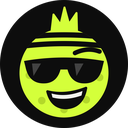
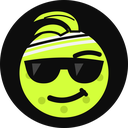
SUNDER: front-page mobile counts as SMS opt-in (#542)
* SUNDER: front-page mobile is the SMS opt-in, drop thank-you SMS step, footer consent covers SMS

* SUNDER: Dink Daddy avatar r3 C-1-quiff, cache bump

Changed region(s): [[0.1562, 0.0312, 0.8125, 0.4688], [0.3438, 0.6562, 0.6875, 0.875]]

diff --git a/public/clients/sunder/index.html b/public/clients/sunder/index.html
@@ -44,7 +44,7 @@ button:focus-visible{outline:3px solid var(--chalk);outline-offset:3px}
 a{color:var(--chalk);text-decoration:underline;text-underline-offset:2px}
 .done{display:none}.state-thanks .form{display:none}.state-thanks .thanks{display:block}
 .done h2{color:var(--volt);font-family:Archivo,"Inter Tight";font-weight:800;font-stretch:125%;font-size:32px;line-height:1.05;margin:0 0 10px;text-transform:uppercase}.done p{margin:0;font-size:17px}
-.tl{margin:0 0 18px!important;color:var(--chalk)}.share{border-top:1.5px solid #333;padding-top:16px}.sh{font-weight:600;color:var(--volt);margin:0 0 12px!important}.cap{font-size:14px!important;color:var(--chalk);margin:-4px 0 12px!important}.cap a{color:var(--chalk)}.ro{color:var(--volt)!important}.btns{display:grid;grid-template-columns:1fr 1fr;gap:10px}.b2{height:46px;font-size:15px}.ghost{background:transparent;color:var(--volt);border:1.5px solid var(--volt)}.smsb{margin-top:18px;padding:14px;border:1.5px solid #333;border-radius:10px}.sq{font-size:15px!important;font-weight:600;margin:0 0 10px!important}.b3{height:44px;font-size:14px;background:var(--volt);color:var(--carbon)}.smsb label.f span{font-size:13px}.smsb input[type=tel]{height:44px}.sms span{font-size:14px;color:var(--chalk)}.b3:disabled{background:#262626;color:#b4b4ae;border:1.5px dashed #6a6a66;cursor:not-allowed}
+.tl{margin:0 0 18px!important;color:var(--chalk)}.share{border-top:1.5px solid #333;padding-top:16px}.sh{font-weight:600;color:var(--volt);margin:0 0 12px!important}.cap{font-size:14px!important;color:var(--chalk);margin:-4px 0 12px!important}.cap a{color:var(--chalk)}.ro{color:var(--volt)!important}.btns{display:grid;grid-template-columns:1fr 1fr;gap:10px}.b2{height:46px;font-size:15px}.ghost{background:transparent;color:var(--volt);border:1.5px solid var(--volt)}
 .tick{width:44px;height:44px;border-radius:50%;background:var(--volt);color:var(--carbon);display:flex;align-items:center;justify-content:center;font:800 22px Archivo,"Inter Tight";margin-bottom:16px}
 footer{position:relative;padding:18px 72px;font-size:13px;color:var(--muted);border-top:1px solid #262626;background:var(--carbon)}footer{line-height:1.5}footer .ft{display:block;max-width:760px}footer .fl{display:block;font-size:12px;margin-top:6px}footer a{display:inline-block;padding:6px 0;margin-right:16px;color:var(--muted);text-decoration-color:rgba(214,214,208,.4)}
 .band{display:none}
@@ -73,7 +73,7 @@ footer{position:relative;padding:18px 72px;font-size:13px;color:var(--muted);bor
 <form class="form" id="f" novalidate>
 <label class="f"><span data-c="lFirst">First name</span><input type="text" id="first" autocomplete="given-name"></label>
 <label class="f"><span data-c="lEmail">Email</span><input type="email" id="email" autocomplete="email"></label>
-<label class="f"><span data-c="lMob0" data-h="1">Mobile <span class="opt">(optional)</span></span><input type="tel" id="mob0" autocomplete="tel" inputmode="tel"></label>
+<label class="f"><span data-c="lMob0" data-h="1">Mobile <span class="opt">(optional): for a launch-day text and SMS-only offers</span></span><input type="tel" id="mob0" autocomplete="tel" inputmode="tel"></label>
 <button type="submit" data-c="cta" style="margin-top:6px">Get first hit</button>
 <input type="text" id="hp" name="website" tabindex="-1" autocomplete="off" aria-hidden="true" style="position:absolute;left:-9999px;width:1px;height:1px;opacity:0">
 <p class="below" id="wn" role="status" aria-live="polite" hidden style="color:#d4ff3a;font-weight:600"></p>
@@ -83,10 +83,6 @@ footer{position:relative;padding:18px 72px;font-size:13px;color:var(--muted);bor
 <div class="share"><p class="sh" data-c="shareL"></p><p class="cap" data-c="shareCap" data-h="1"></p>
 <label class="f"><span data-c="lLink"></span><input type="text" readonly id="ref" class="ro"></label>
 <div class="btns"><button type="button" class="b2" data-c="copyB"></button><button type="button" class="b2 ghost" data-c="shareB"></button></div></div>
-<div class="smsb"><p class="sq" data-c="smsQ"></p>
-<label class="f"><span data-c="lMobile"></span><input type="tel" id="mobile" autocomplete="tel"></label>
-<label class="sms show"><input type="checkbox" id="smsok" checked><span data-c="sms"></span></label>
-<button type="button" class="b3" id="addb" disabled data-c="addB"></button></div>
 <div class="dq" id="dq"><p class="dl" data-c="dqL"></p>
 <div class="opts"><button type="button" class="o" data-v="outright" data-c="dq1"></button><button type="button" class="o" data-v="subscription" data-c="dq2"></button><button type="button" class="o" data-v="unsure" data-c="dq3"></button></div>
 <p class="dt" data-c="dqT" aria-live="polite"></p></div>
@@ -105,7 +101,7 @@ const COPY={
  eyebrow:"Split the game open.",
  headline:"Get first hit.", /* set from HEADLINES below */
  sub:"A new pickleball paddle with power, spin and control. Join for 20% off at launch, early access and a giveaway.",
- lFirst:"First name", lEmail:"Email", lMob0:'Mobile <span class="opt">(optional)</span>',
+ lFirst:"First name", lEmail:"Email", lMob0:'Mobile <span class="opt">(optional): for a launch-day text and SMS-only offers</span>',
  cta:"Get first hit",
  wty:"12-month warranty on core and edge.", /* Confirmed by Shane 2 Nov 2026 */
  thanksH:"You're in.",
@@ -113,12 +109,11 @@ const COPY={
  shareL:"Get more chances to win. Share your link: every mate who joins gets you an extra giveaway entry.",
  shareCap:'Up to 10 extra entries.',
  lLink:"Your link", copyB:"Copy link", shareB:"Share",
- smsQ:"Want a text the day we launch?", lMobile:"Mobile", sms:"Text me launch news and offers. Reply STOP to opt out.", addB:"Add",
  /* Demand question (copy v4, "Thank-you state: optional demand question", not locked). Last block, one tap, no price. */
  dqL:"Quick one, totally optional. When SUNDER launches, would you rather:",
  dq1:"Buy a paddle outright", dq2:"Get a fresh paddle every 6 months for a monthly fee", dq3:"Not sure yet",
  dqT:"Thanks, noted. It helps us shape the launch.",
- footer:'<span class="ft">By joining, you agree to receive emails from Saabai Pty Ltd (ABN&nbsp;44&nbsp;703&nbsp;735&nbsp;264) trading as SUNDER about our launch, offers and giveaways. We email you to confirm before any marketing. Unsubscribe any time.</span><span class="fl"><a href="/privacy">Privacy</a><a href="/giveaway-terms">Giveaway terms</a></span>'
+ footer:'<span class="ft">By joining, you agree to receive emails or SMS from Saabai Pty Ltd (ABN&nbsp;44&nbsp;703&nbsp;735&nbsp;264) trading as SUNDER Pickleball about our launch, offers and FREE giveaways. We email you to confirm before any marketing. Unsubscribe any time.</span><span class="fl"><a href="/privacy">Privacy</a><a href="/giveaway-terms">Giveaway terms</a></span>'
 };
 /* ===== END COPY BLOCK ===== */
 {const ovB=(()=>{try{const m=document.cookie.match(/(?:^|; )sb_ov=([^;]+)/);const o=m&&JSON.parse(decodeURIComponent(m[1]));return !!o&&o.p===location.pathname&&o.o.some(t=>t.i==='sunder-home-hero-headline'&&t.a==='b')}catch{return false}})();
@@ -135,13 +130,9 @@ function thanks(first,ref,token){
  const h=document.querySelector('[data-c="thanksH"]');h.textContent=first?"You're in, "+first+".":"You're in.";
  $('ref').value=ref?refLink(ref):'';
  if(!ref)document.querySelector('.share').style.display='none';
- if(!token){document.querySelector('.smsb').style.display='none';$('dq').style.display='none'}
+ if(!token){$('dq').style.display='none'}
  document.body.className='state-thanks';
- syncAdd();
 }
-const syncAdd=()=>{$('addb').disabled=!($('smsok').checked&&$('mobile').value.trim())};$('smsok').addEventListener('change',syncAdd);$('mobile').addEventListener('input',syncAdd);
-$('addb').addEventListener('click',async()=>{const b=$('addb');b.disabled=true;try{const r=await post('/api/sunder-waitlist/update',{token:TOKEN,mobile:$('mobile').value,smsConsent:$('smsok').checked});
- if(r.ok){b.textContent='Added';$('mobile').readOnly=true;$('smsok').disabled=true}else{b.disabled=false;alert(r.j.error||'Please try again.')}}catch{b.disabled=false;alert('Please try again.')}});
 document.querySelectorAll('#dq .o').forEach(b=>b.addEventListener('click',()=>{const d=$('dq');d.dataset.pref=b.dataset.v;d.classList.add('ans');if(TOKEN)post('/api/sunder-waitlist/update',{token:TOKEN,launchPref:b.dataset.v}).catch(()=>{})}));
 document.querySelector('[data-c="copyB"]').addEventListener('click',e=>{navigator.clipboard&&navigator.clipboard.writeText($('ref').value).then(()=>{e.target.textContent='Copied'})});
 document.querySelector('[data-c="shareB"]').addEventListener('click',()=>{const u=$('ref').value;if(navigator.share)navigator.share({title:'SUNDER',url:u}).catch(()=>{});else navigator.clipboard&&navigator.clipboard.writeText(u)});
@@ -152,7 +143,7 @@ $('f').addEventListener('submit',async e=>{e.preventDefault();say('');
  const btn=document.querySelector('#f button[type=submit]');btn.disabled=true;
  const utm={};['source','medium','campaign','content','term'].forEach(k=>{const v=q.get('utm_'+k);if(v)utm[k]=v});
  try{const r=await post('/api/sunder-waitlist',{firstName:first,email,mobile:mob0,h:Number(document.documentElement.dataset.headline)||1,ref:q.get('r')||'',utm,source:document.referrer?document.referrer.slice(0,200):'',website:$('hp').value});
-  if(r.ok&&r.j.ok){if(mob0)$('mobile').value=mob0;thanks(first,r.j.ref,r.j.token);try{window.dispatchEvent(new Event('sb:goal'))}catch{}}else{say(r.j.error||'Something went wrong. Please try again.');btn.disabled=false}
+  if(r.ok&&r.j.ok){thanks(first,r.j.ref,r.j.token);try{window.dispatchEvent(new Event('sb:goal'))}catch{}}else{say(r.j.error||'Something went wrong. Please try again.');btn.disabled=false}
  }catch{say('Something went wrong. Please try again.');btn.disabled=false}
 });
 </script>

diff --git a/tests/sunder-waitlist.test.ts b/tests/sunder-waitlist.test.ts
@@ -133,7 +133,7 @@ test("sunder ships its own favicons and the host serves them", async () => {
   assert.match(res.headers.get("x-middleware-rewrite") ?? "", /\/clients\/sunder\/favicon\.ico$/);
 });
 
-test("signup mobile is optional, validated, saved without SMS consent, new rows only", async () => {
+test("signup mobile is optional, validated, entering it is the SMS opt-in, new rows only", async () => {
   assert.equal(ok({ firstName: "Sam", email: "a@b.co" }).mobile, null);
   assert.equal(ok({ firstName: "Sam", email: "a@b.co", mobile: "  " }).mobile, null);
   assert.equal(ok({ firstName: "Sam", email: "a@b.co", mobile: "0412 345 678" }).mobile, "0412345678");
@@ -144,32 +144,30 @@ test("signup mobile is optional, validated, saved without SMS consent, new rows 
   await signup(s, ok({ firstName: "M", email: "m@x.co", mobile: "+61412345678" }), meta);
   assert.equal(patches.length, 1);
   assert.equal(patches[0].mobile, "+61412345678");
-  assert.equal("sms_consent" in patches[0], false);
+  assert.equal(patches[0].sms_consent, true);
+  assert.equal(typeof patches[0].sms_consent_at, "string");
+  assert.match(String(patches[0].sms_consent_text), /^Signup form: .*Reply STOP to opt out\.$/);
   await signup(s, ok({ firstName: "M", email: "m@x.co", mobile: "0499999999" }), meta); // repeat email
   await signup(s, ok({ firstName: "N", email: "n@x.co" }), meta); // no mobile
   assert.equal(patches.length, 1);
 });
 
-test("page asks for optional mobile on signup and keeps SMS opt-in on thank-you", () => {
+test("page asks for optional mobile on signup and labels it as the SMS opt-in, no thank-you SMS step", () => {
   const html = readFileSync("public/clients/sunder/index.html", "utf8");
   assert.match(html, /id="mob0"/);
-  assert.match(html, /Mobile <span class="opt">\(optional\)<\/span>/);
+  assert.match(html, /Mobile <span class="opt">\(optional\): for a launch-day text and SMS-only offers<\/span>/);
   assert.match(html, /<input type="tel" id="mob0" autocomplete="tel" inputmode="tel">/);
   assert.equal(/\[(Privacy Policy|Giveaway terms)\]/.test(html), false);
   assert.match(html, /ABN&nbsp;44&nbsp;703&nbsp;735&nbsp;264/);
   const form = html.slice(html.indexOf('<form class="form"'), html.indexOf("</form>"));
   assert.equal(/smsok|type="checkbox"/.test(form), false);
-  assert.match(html, /<input type="checkbox" id="smsok" checked>/);
-  assert.match(html, /<button type="button" class="b3" id="addb" disabled data-c="addB">/);
-  assert.match(html, /syncAdd=\(\)=>\{\$\('addb'\)\.disabled=!\(\$\('smsok'\)\.checked&&\$\('mobile'\)\.value\.trim\(\)\)\}/);
-  assert.match(html, /\$\('mobile'\)\.addEventListener\('input',syncAdd\)/);
-  assert.match(html, /smsConsent:\$\('smsok'\)\.checked/);
+  assert.equal(/smsok|addb|Want a text|smsb/.test(html), false);
   assert.equal(/href="#privacy"|href="#giveaway-terms"/.test(html), false);
   const thanks = html.slice(html.indexOf('<div class="done thanks">'), html.indexOf("</section>"));
   assert.equal(/privacy|giveaway-terms/i.test(form + thanks), false);
   assert.equal(/By joining|Unsubscribe|ABN/.test(form), false);
   const footer = html.slice(html.indexOf("footer:'"));
-  assert.match(footer, /By joining, you agree to receive emails from Saabai Pty Ltd \(ABN&nbsp;44&nbsp;703&nbsp;735&nbsp;264\)/);
+  assert.match(footer, /By joining, you agree to receive emails or SMS from Saabai Pty Ltd \(ABN&nbsp;44&nbsp;703&nbsp;735&nbsp;264\)/);
   assert.equal(/ABN 44/.test(html), false);
   assert.match(html, /href="\/privacy">Privacy</);
   assert.match(html, /href="\/giveaway-terms">Giveaway terms</);

diff --git a/public/clients/sunder/privacy.html b/public/clients/sunder/privacy.html
@@ -17,16 +17,16 @@ a{color:var(--chalk);text-underline-offset:2px}footer{border-top:1px solid #2626
 <h1>Privacy Policy</h1><p class="up">Last updated: 1 November 2026</p>
 <p>This policy explains how Saabai Pty Ltd (ABN&nbsp;44&nbsp;703&nbsp;735&nbsp;264), trading as SUNDER ("we", "us"), handles your personal information when you join the SUNDER waitlist at sunder.com.au. We follow the Australian Privacy Principles in the Privacy Act 1988 (Cth).</p>
 <h2>What we collect</h2><p>When you join the waitlist:</p><ul>
-<li>Your first name and email address.</li><li>Your mobile number, if you choose to give it. It is optional.</li>
+<li>Your first name and email address.</li><li>Your mobile number, if you choose to give it. It is optional. Giving it is your SMS opt-in, and we record the wording and the time.</li>
 <li>Referral details: your personal referral code, the code of whoever referred you (if any), and how many extra giveaway entries you have earned (up to 10).</li>
 <li>How you found us: the page you signed up on and campaign tags in the link (for example utm_source).</li>
 <li>A record of your consent: the wording you agreed to, its version and the time.</li>
 <li>Basic technical data: your browser's user agent and a one-way hashed version of your IP address, used to prevent spam and abuse. We do not keep your raw IP address in the waitlist.</li></ul>
-<p>On the thank-you screen, if you choose:</p><ul><li>Your SMS opt-in, with the wording you agreed to and the time.</li><li>Your answer to whether you would rather buy outright or subscribe, and when you answered.</li></ul>
+<p>On the thank-you screen, if you choose:</p><ul><li>Your answer to whether you would rather buy outright or subscribe, and when you answered.</li></ul>
 <p>We use first-party cookies on this site to test page versions and measure signups. We don't use advertising pixels or third-party analytics.</p>
 <h2>Why we collect it</h2><ul><li>To send you SUNDER launch updates and early access.</li><li>To give you the 20% launch offer.</li>
 <li>To run the waitlist giveaway, including counting referral entries and contacting winners.</li>
-<li>To send texts, but only if the separate SMS box on the thank-you screen is ticked when you add your mobile. Giving a mobile at signup is not consent to texts.</li>
+<li>To send texts about our launch and SMS-only offers, but only if you gave your mobile for that. Every text says how to opt out: reply STOP.</li>
 <li>To understand which pages and campaigns work and what customers prefer at launch.</li><li>To protect the form from spam and abuse.</li></ul>
 <p>If you don't give us your name and email, you can't join the waitlist or enter the giveaway.</p>
 <h2>Unsubscribing</h2><ul><li>Email: use the unsubscribe link in any email.</li><li>SMS: reply STOP to any text.</li><li>Or contact us at <a href="mailto:hello@sunder.com.au">hello@sunder.com.au</a>.</li></ul><p>We act on unsubscribe requests within 5 business days.</p>

diff --git a/lib/sunder-waitlist.ts b/lib/sunder-waitlist.ts
@@ -8,10 +8,13 @@
  */
 import { createHash, randomBytes } from "node:crypto";
 
-export const SUNDER_CONSENT_VERSION = "2026-11-02-v2";
+export const SUNDER_CONSENT_VERSION = "2026-11-04-v3";
 export const SUNDER_CONSENT_TEXT =
-  "By joining, you agree to receive emails from Saabai Pty Ltd (ABN 44 703 735 264) trading as SUNDER about our launch, offers and giveaways. We email you to confirm before any marketing. Unsubscribe any time.";
+  "By joining, you agree to receive emails or SMS from Saabai Pty Ltd (ABN 44 703 735 264) trading as SUNDER Pickleball about our launch, offers and FREE giveaways. We email you to confirm before any marketing. Unsubscribe any time.";
 export const SUNDER_SMS_CONSENT_TEXT = "Text me launch news and offers. Reply STOP to opt out.";
+/** Front-page signup: entering a mobile under this label is the SMS opt-in. Every text must say "Reply STOP to opt out". */
+export const SUNDER_SIGNUP_SMS_CONSENT_TEXT =
+  "Signup form: Mobile (optional): for a launch-day text and SMS-only offers. Reply STOP to opt out.";
 export const REFERRAL_CAP = 10;
 export const LAUNCH_PREFS = ["outright", "subscription", "unsure"] as const;
 export type LaunchPref = (typeof LAUNCH_PREFS)[number];
@@ -27,7 +30,7 @@ export type SignupInput = {
   referredBy: string | null;
   utm: Record<"source" | "medium" | "campaign" | "content" | "term", string | null>;
   source: string | null;
-  /** Optional mobile from the signup form. Stored without SMS consent. */
+  /** Optional mobile from the signup form. Entering it is the SMS opt-in. */
   mobile: string | null;
 };
 
@@ -166,10 +169,13 @@ export async function signup(store: WaitlistStore, input: SignupInput, meta: { i
       });
       if (!r.created) return { ref: r.referral_code, token: null };
       // Optional signup mobile: new rows only (never overwrite an existing
-      // subscriber's data), and never opted into SMS here. Best effort.
+      // subscriber's data). The labelled field is the SMS opt-in. Best effort.
       if (input.mobile) {
         try {
-          await store.update(hashToken(token), { mobile: input.mobile, updated_at: new Date().toISOString() });
+          const t = new Date().toISOString();
+          await store.update(hashToken(token), {
+            mobile: input.mobile, sms_consent: true, sms_consent_at: t, sms_consent_text: SUNDER_SIGNUP_SMS_CONSENT_TEXT, updated_at: t,
+          });
         } catch (e) {
           console.error("sunder waitlist mobile save failed:", e instanceof Error ? e.message : "error");
         }

diff --git a/lib/chatbot/sunder-bot.ts b/lib/chatbot/sunder-bot.ts
@@ -26,7 +26,7 @@ export const SUNDER_LIST_NAME = "Pre-Launch List";
 /* ========== 1. PERSONA ========== */
 export const SUNDER_BOT_NAME = "Dink Daddy"; // Shane 2 Nov 2026.
 /** Avatar slot: Designer is making Dink Daddy's avatar. Put an https URL here (e.g. https://www.saabai.ai/clients/sunder/dink-daddy-avatar.png). Empty shows initials. */
-export const SUNDER_AVATAR_URL = "https://www.saabai.ai/clients/sunder/dink-daddy-128.webp"; // r2 variant B, Cocky Ball with carbon band, spikes and grin (Shane 2 Nov 2026). 512 webp and png copies sit beside it.
+export const SUNDER_AVATAR_URL = "https://www.saabai.ai/clients/sunder/dink-daddy-128.webp?v=r3c1"; // r3 C-1-quiff (Shane 4 Nov 2026). 512 webp and png copies sit beside it.
 const SUNDER_ROLE =
   "You are Dink Daddy: cocky, cheeky and fun, the king of the soft game. You love dinks, drops and resets, " +
   "and you playfully rib the bangers. You call visitors \"champ\". Keep the swagger friendly, never rude or mean. " +

diff --git a/tests/sunder-repo-html.test.ts b/tests/sunder-repo-html.test.ts
@@ -27,7 +27,7 @@ test("SUNDER is repo-first: the repo file is served, never a Blob copy", async (
   assert.equal(body, await pipeline("sunder", "public/clients/sunder/index.html"));
   assert.match(body, /window\.dispatchEvent\(new Event\('sb:goal'\)\)/);
   assert.match(body, /const ovB=/);
-  assert.match(body, /<input type="checkbox" id="smsok" checked>/);
+  assert.match(body, /Mobile <span class="opt">\(optional\): for a launch-day text and SMS-only offers<\/span>/);
 });
 
 test("SUNDER headers match live: no-store and noindex, nofollow", async () => {
